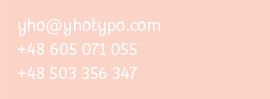
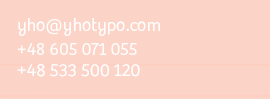
leave out telephone #s

Changed region(s): [[0.0593, 0.6364, 0.5333, 0.8182]]

diff --git a/source/stylesheets/main.css.scss b/source/stylesheets/main.css.scss
@@ -102,13 +102,13 @@ h4 {
 #contact {
   /*background: rgb(255, 0, 0);
   background: rgba(255, 0, 0, 0.2);*/
-  background: url(/images/yho_contact.png);
+  background: url(/images/yho_contact_email.png);
   text-indent: -9999px;
   position: absolute;
   top: 230px;
   right: 5%;
   width: 270px;
-  height: 100px;
+  height: 50px;
 }
 
 #fblikebox {
